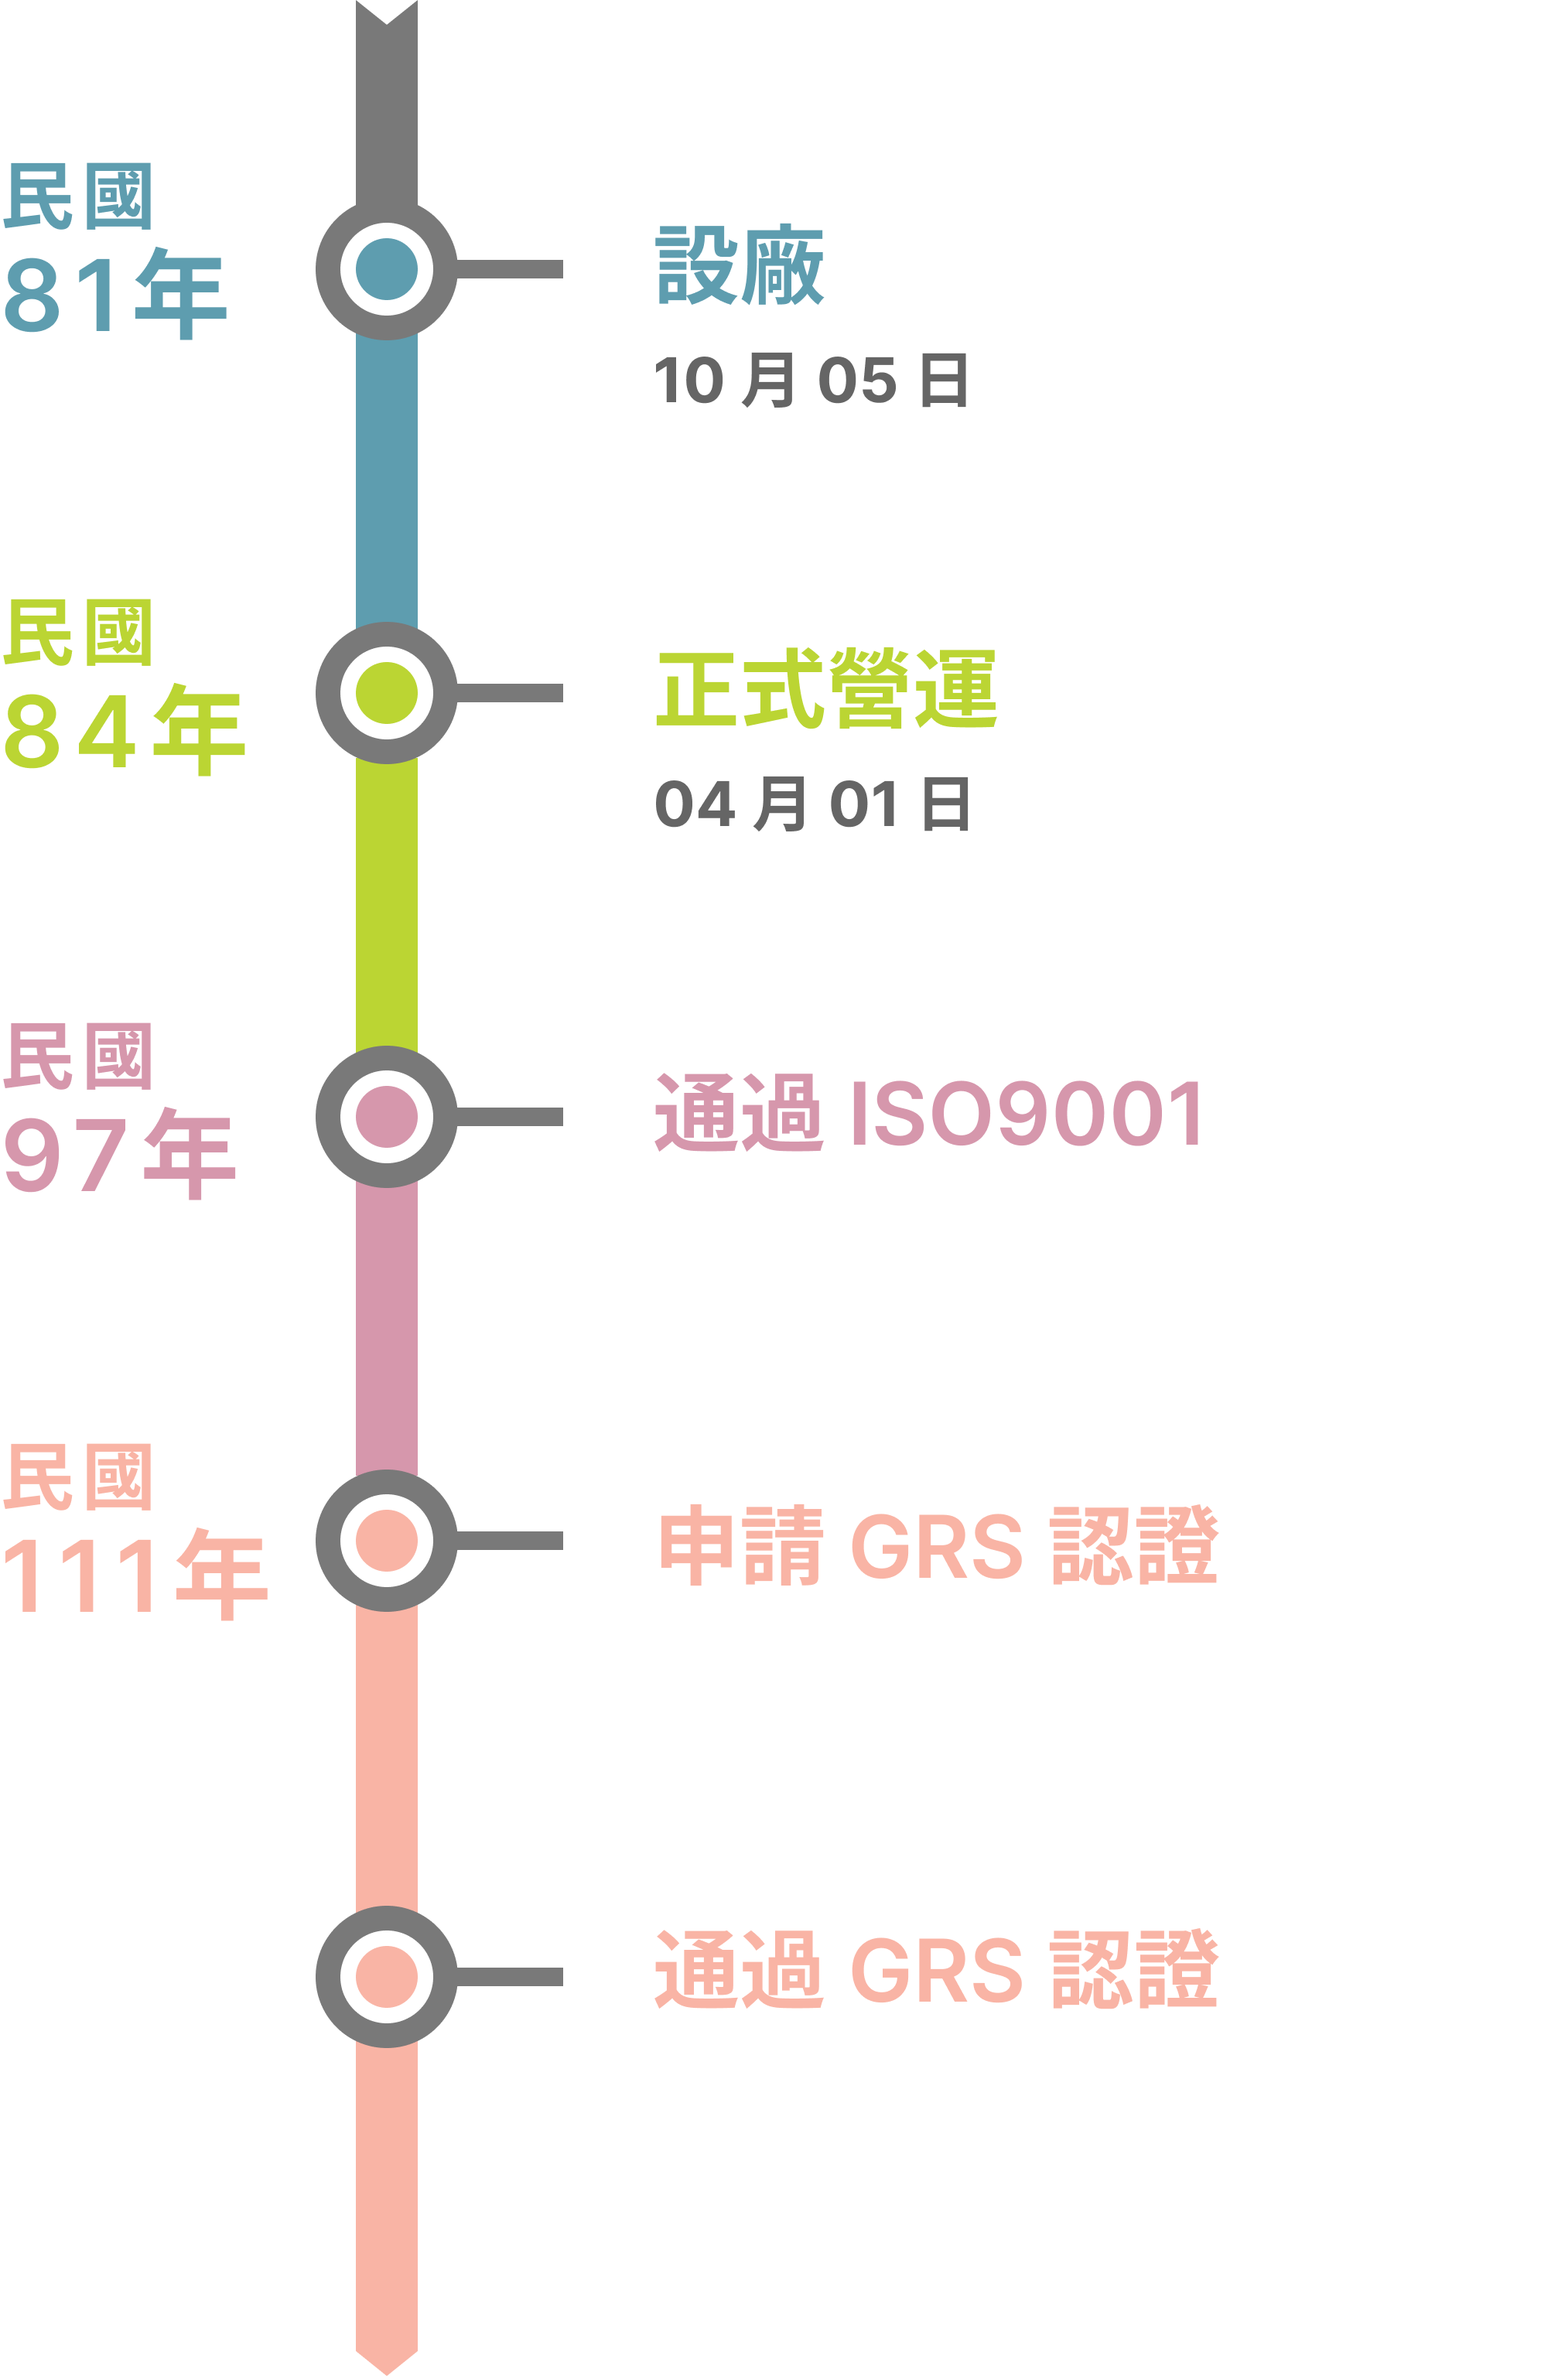
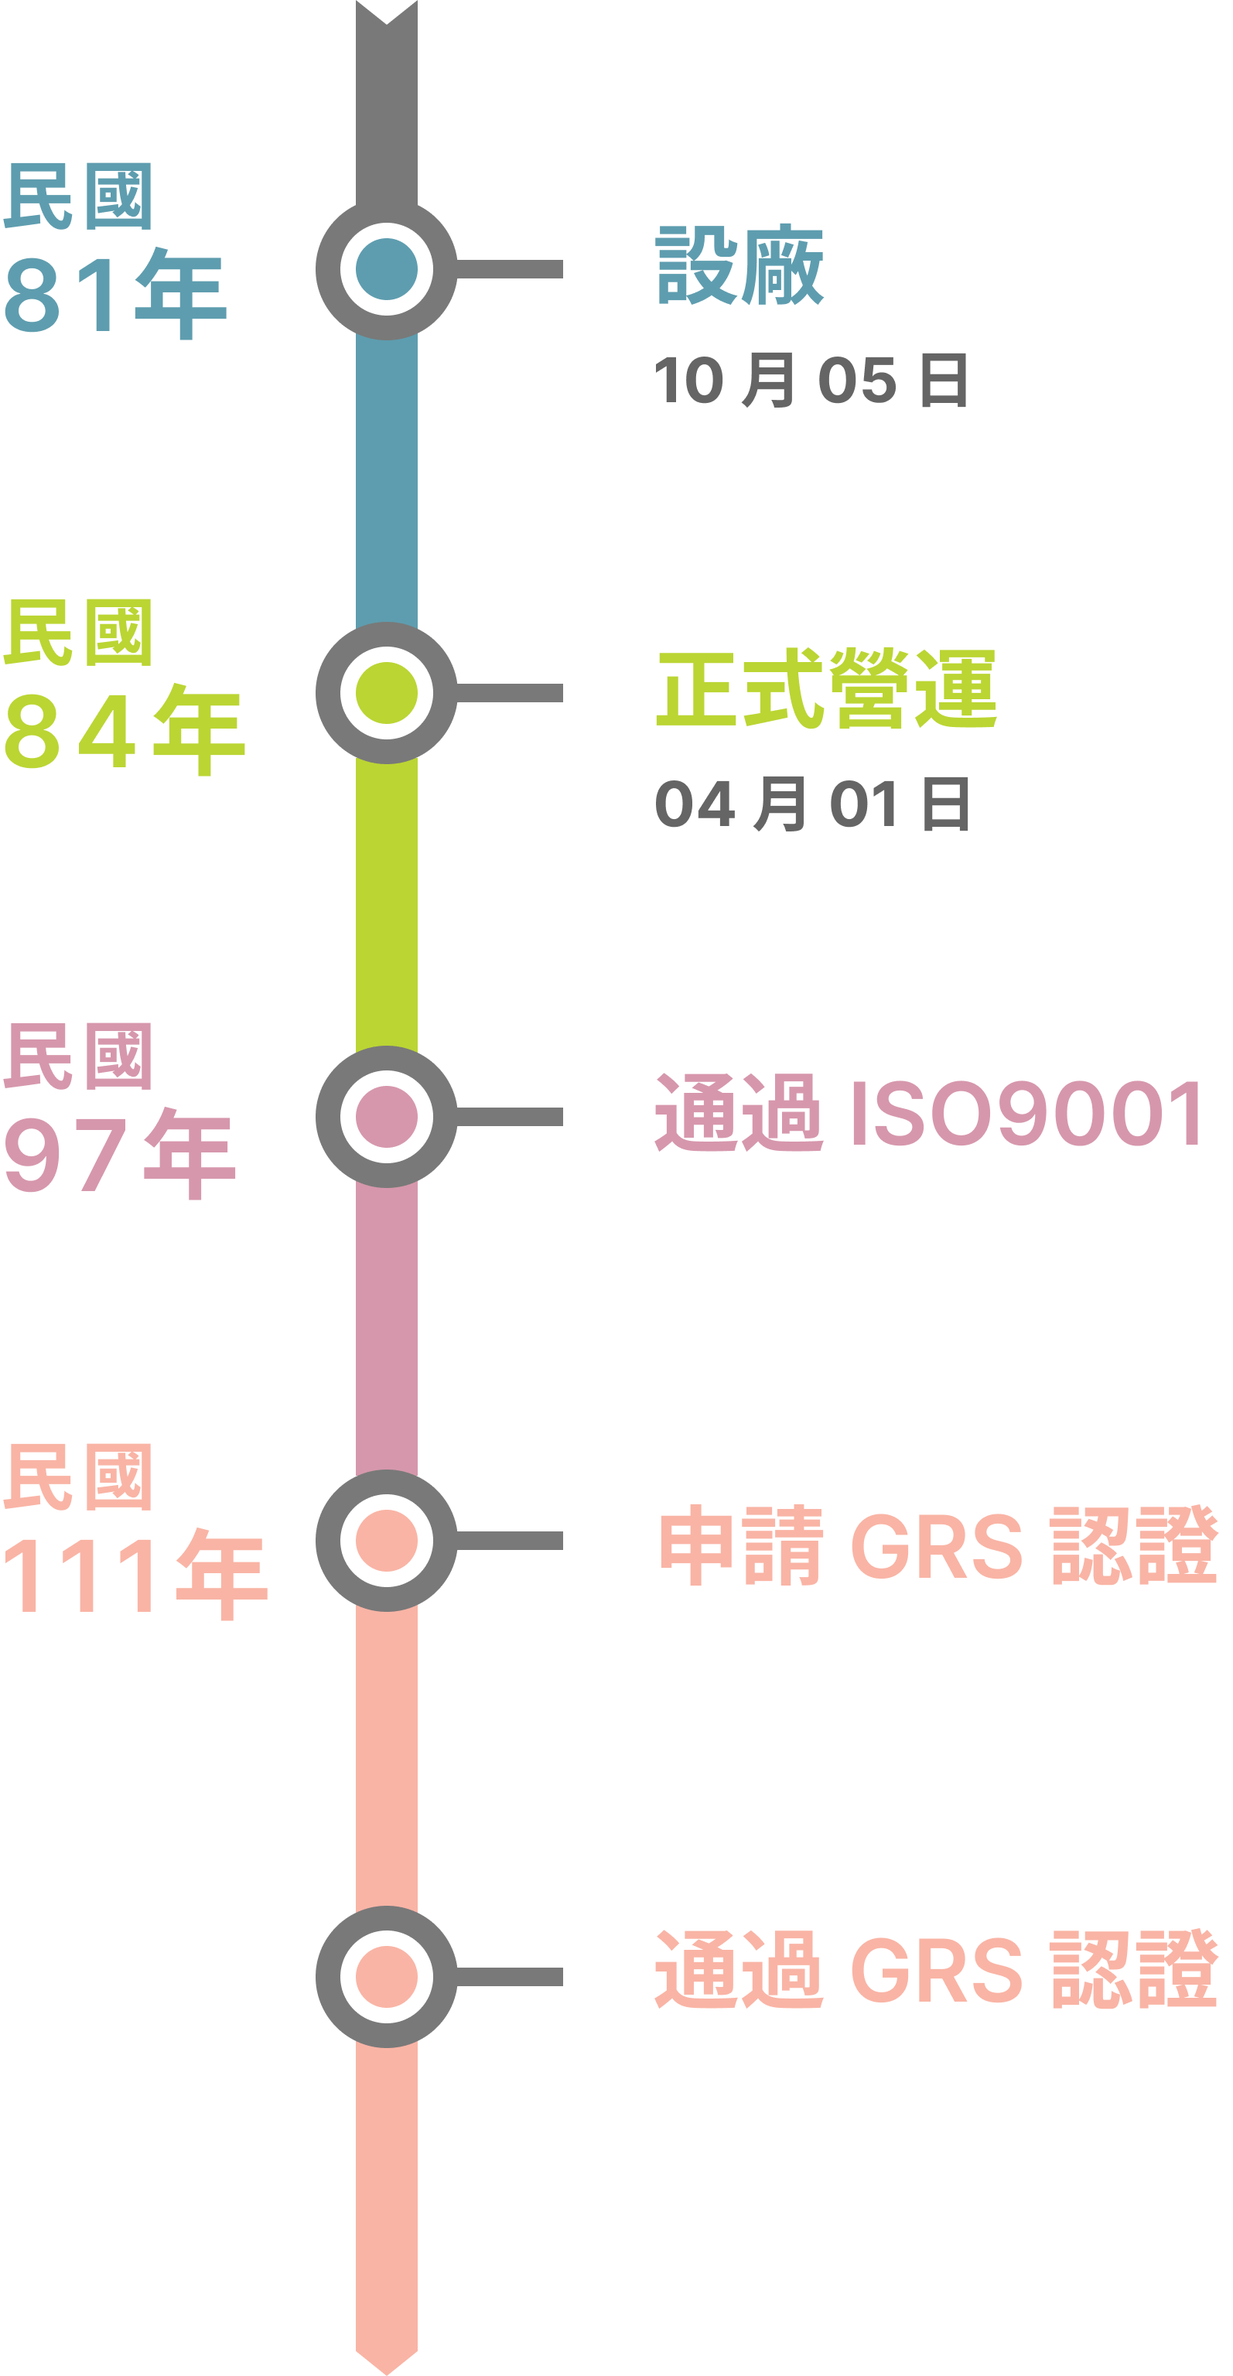
關於我們 mobile

Changed region(s): [[0.0, 0.0, 0.9837, 1.0]]

diff --git a/pages/about.js b/pages/about.js
@@ -7,7 +7,7 @@ export default function About() {
   const basePath = isProd ? "/hungtse-next" : "";
 
   return (
-    <div className={`container`}>
+    <div className={`container about`}>
       <Head>
         <title>關於竑澤 | 竑澤實業股份有限公司</title>
         <meta
@@ -42,17 +42,9 @@ export default function About() {
             <Image src={basePath + "/image/時間軸.png"} layout="fill"></Image>
           </div>
           <div className="timeline-text">
-            竑澤實業成立於民國 81 年 10 月，為中華 <br />
-            民國經濟部核准公司，並於民國 84 年開 <br />
-            始營運，至今已超過 25 年。我們擁有專
-            <br />
-            業的一貫作業，堅持品質的良好，從胚 <br />
-            布開始進行初步的處理、各式加工作業 <br />
-            再到後整理，竑澤都層層把關，提供客 <br />
-            戶最好的成品；除了專業技術，竑澤擁 <br />
-            有靈活的機動性及溝通，給顧客最實在 <br />
-            的；為滿足顧客需求，竑澤不斷新增服
-            <br />
+            竑澤實業成立於民國 81 年 10 月，為中華 民國經濟部核准公司，並於民國
+            84 年開始營運，至今已超過 25
+            年。我們擁有專業的一貫作業，堅持品質的良好，從胚布開始進行初步的處理、各式加工作業再到後整理，竑澤都層層把關，提供客戶最好的成品；除了專業技術，竑澤擁有靈活的機動性及溝通，給顧客最實在的；為滿足顧客需求，竑澤不斷新增服
             務的項目，成為最全面的印染廠。
           </div>
         </div>

diff --git a/styles/about.scss b/styles/about.scss
@@ -1,27 +1,53 @@
+%font {
+    font-size: 1.75rem;
+    line-height: 40px;
+
+    @media screen and (max-width: 767px) {
+        font-size: 1.25rem;
+        line-height: 24px;
+    }
+}
+
 .history {
     flex-direction: row !important;
+    justify-content: center;
+
+    @media screen and (max-width: 767px) {
+        flex-direction: column-reverse !important;
+    }
 
     .timeline-image {
         position: relative;
-        width: 500px;
-        height: 768px;
+        min-width: 320px;
+        width: 100%;
+        max-width: 400px;
+        aspect-ratio: 797 / 1536;
     }
 
     .timeline-text {
-        font-size: 1.75rem;
-        line-height: 40px;
+        @extend %font;
+        width: 100%;
+        max-width: 535px;
+        margin-left: 60px;
+
+        @media screen and (max-width: 767px) {
+            margin-left: 0;
+            margin-bottom: 30px;
+        }
     }
 }
 
 .sewage {
     .sewage-text {
-        font-size: 1.75rem;
-        line-height: 40px;
+        @extend %font;
     }
 
     .sewage-image {
+
         position: relative;
-        width: 600px;
-        height: 4494px;
+        min-width: 320px;
+        width: 100%;
+        max-width: 600px;
+        aspect-ratio: 879 / 6615;
     }
 }
